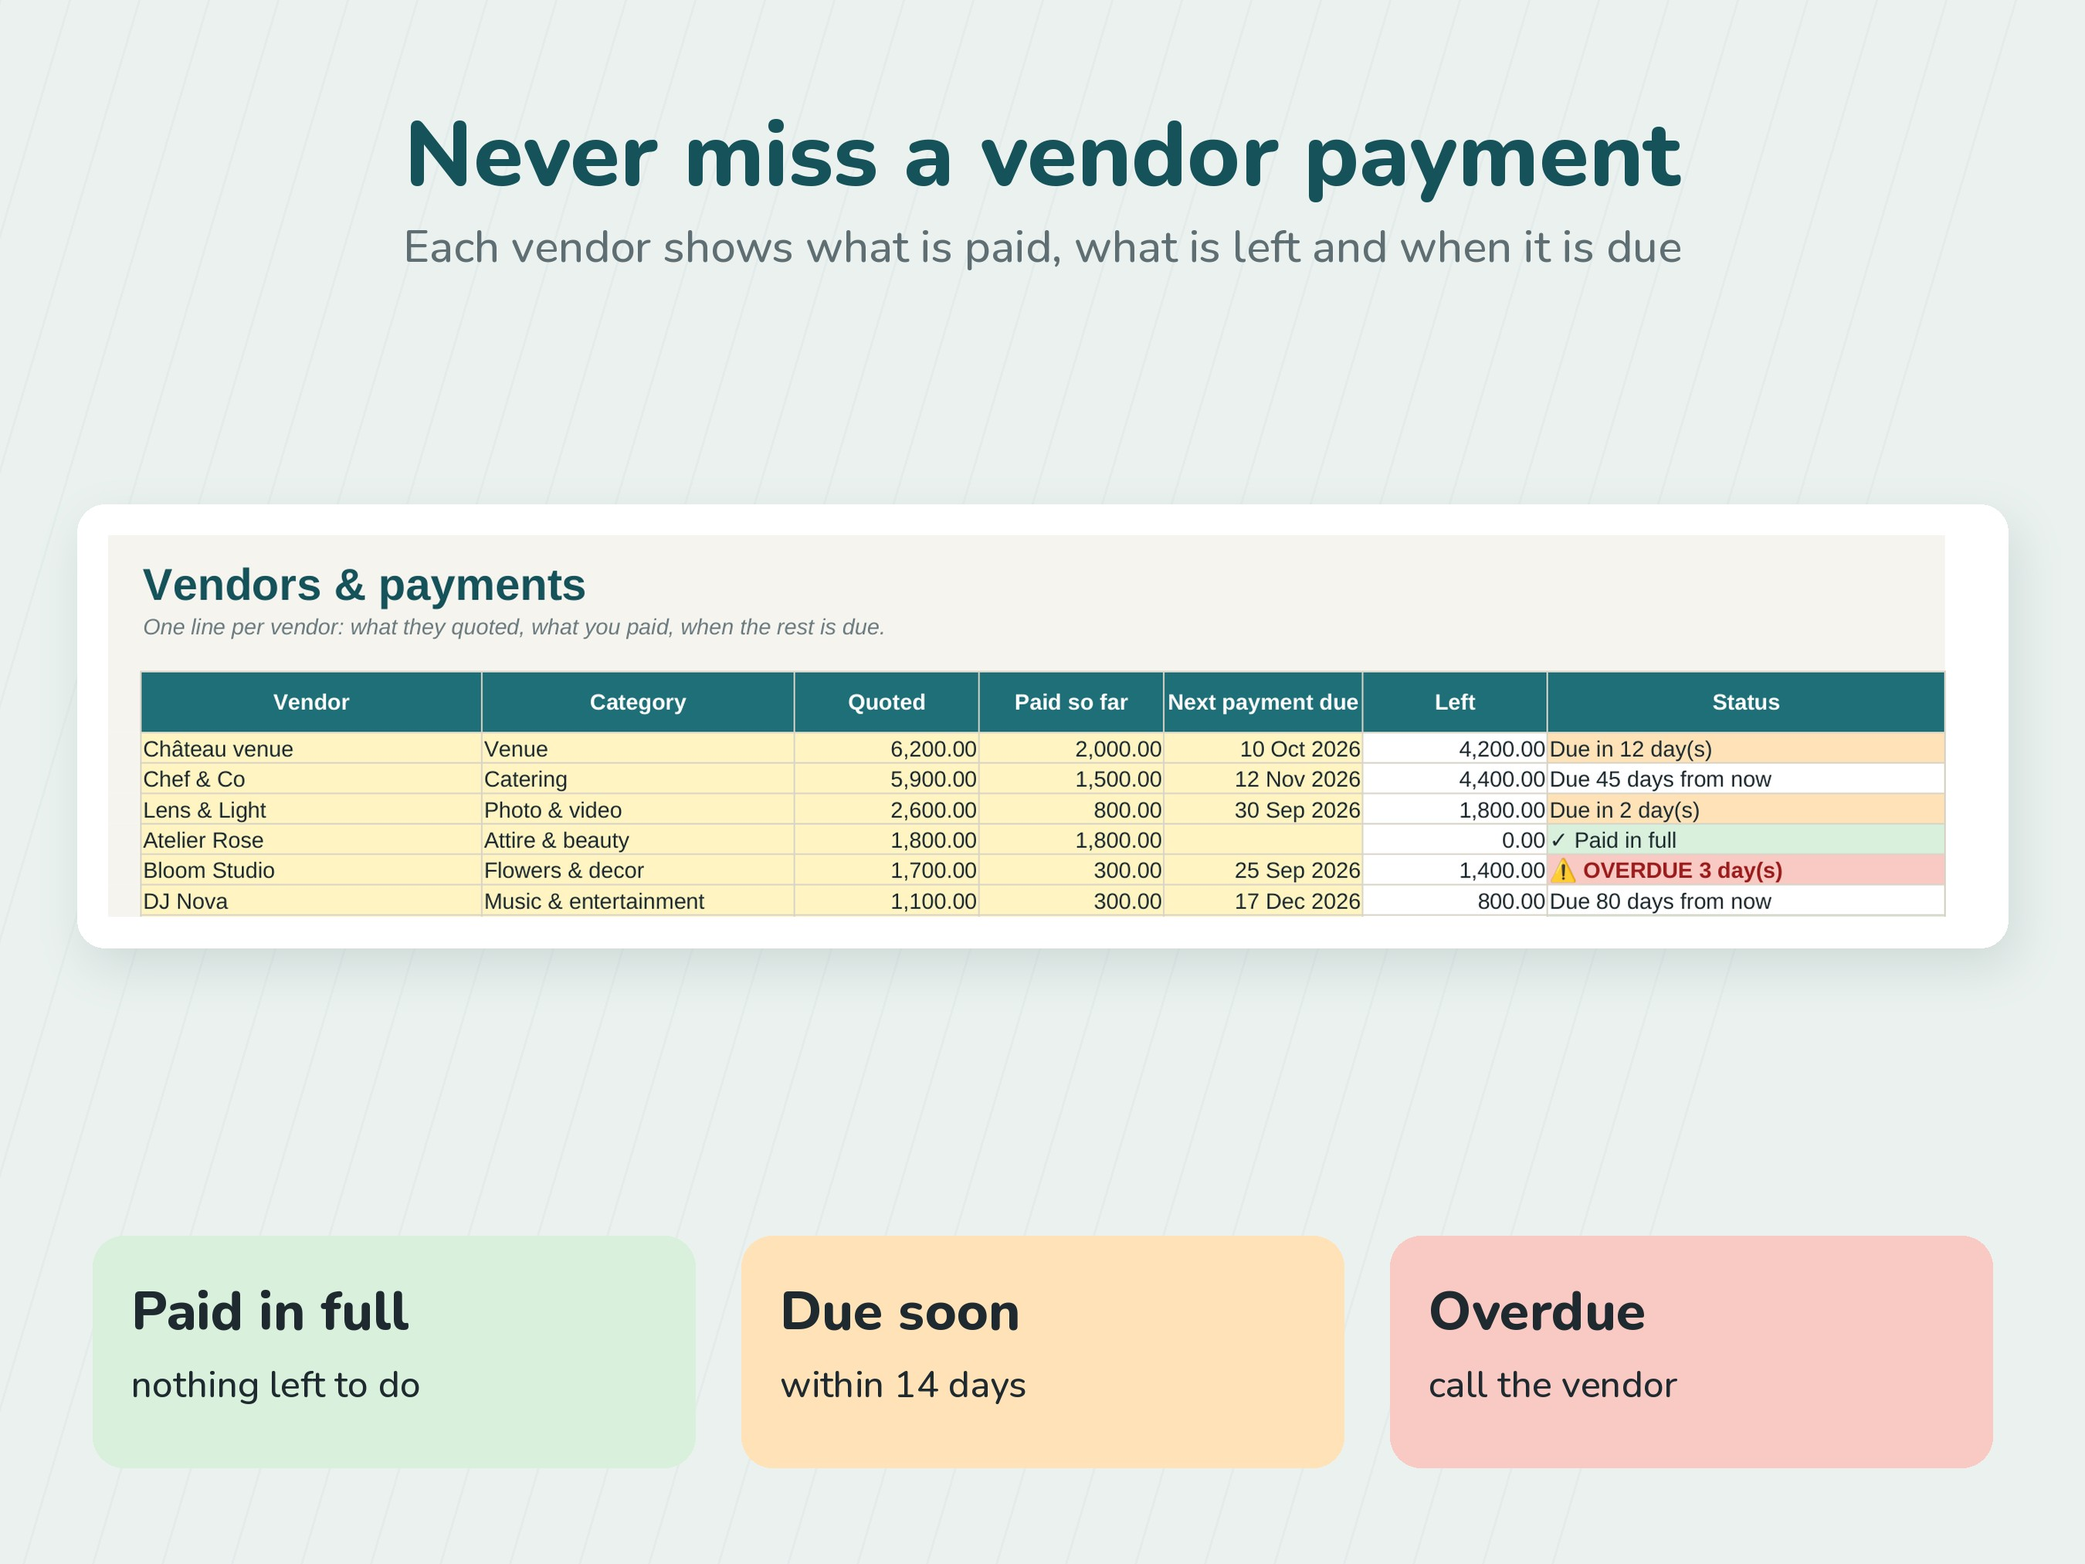
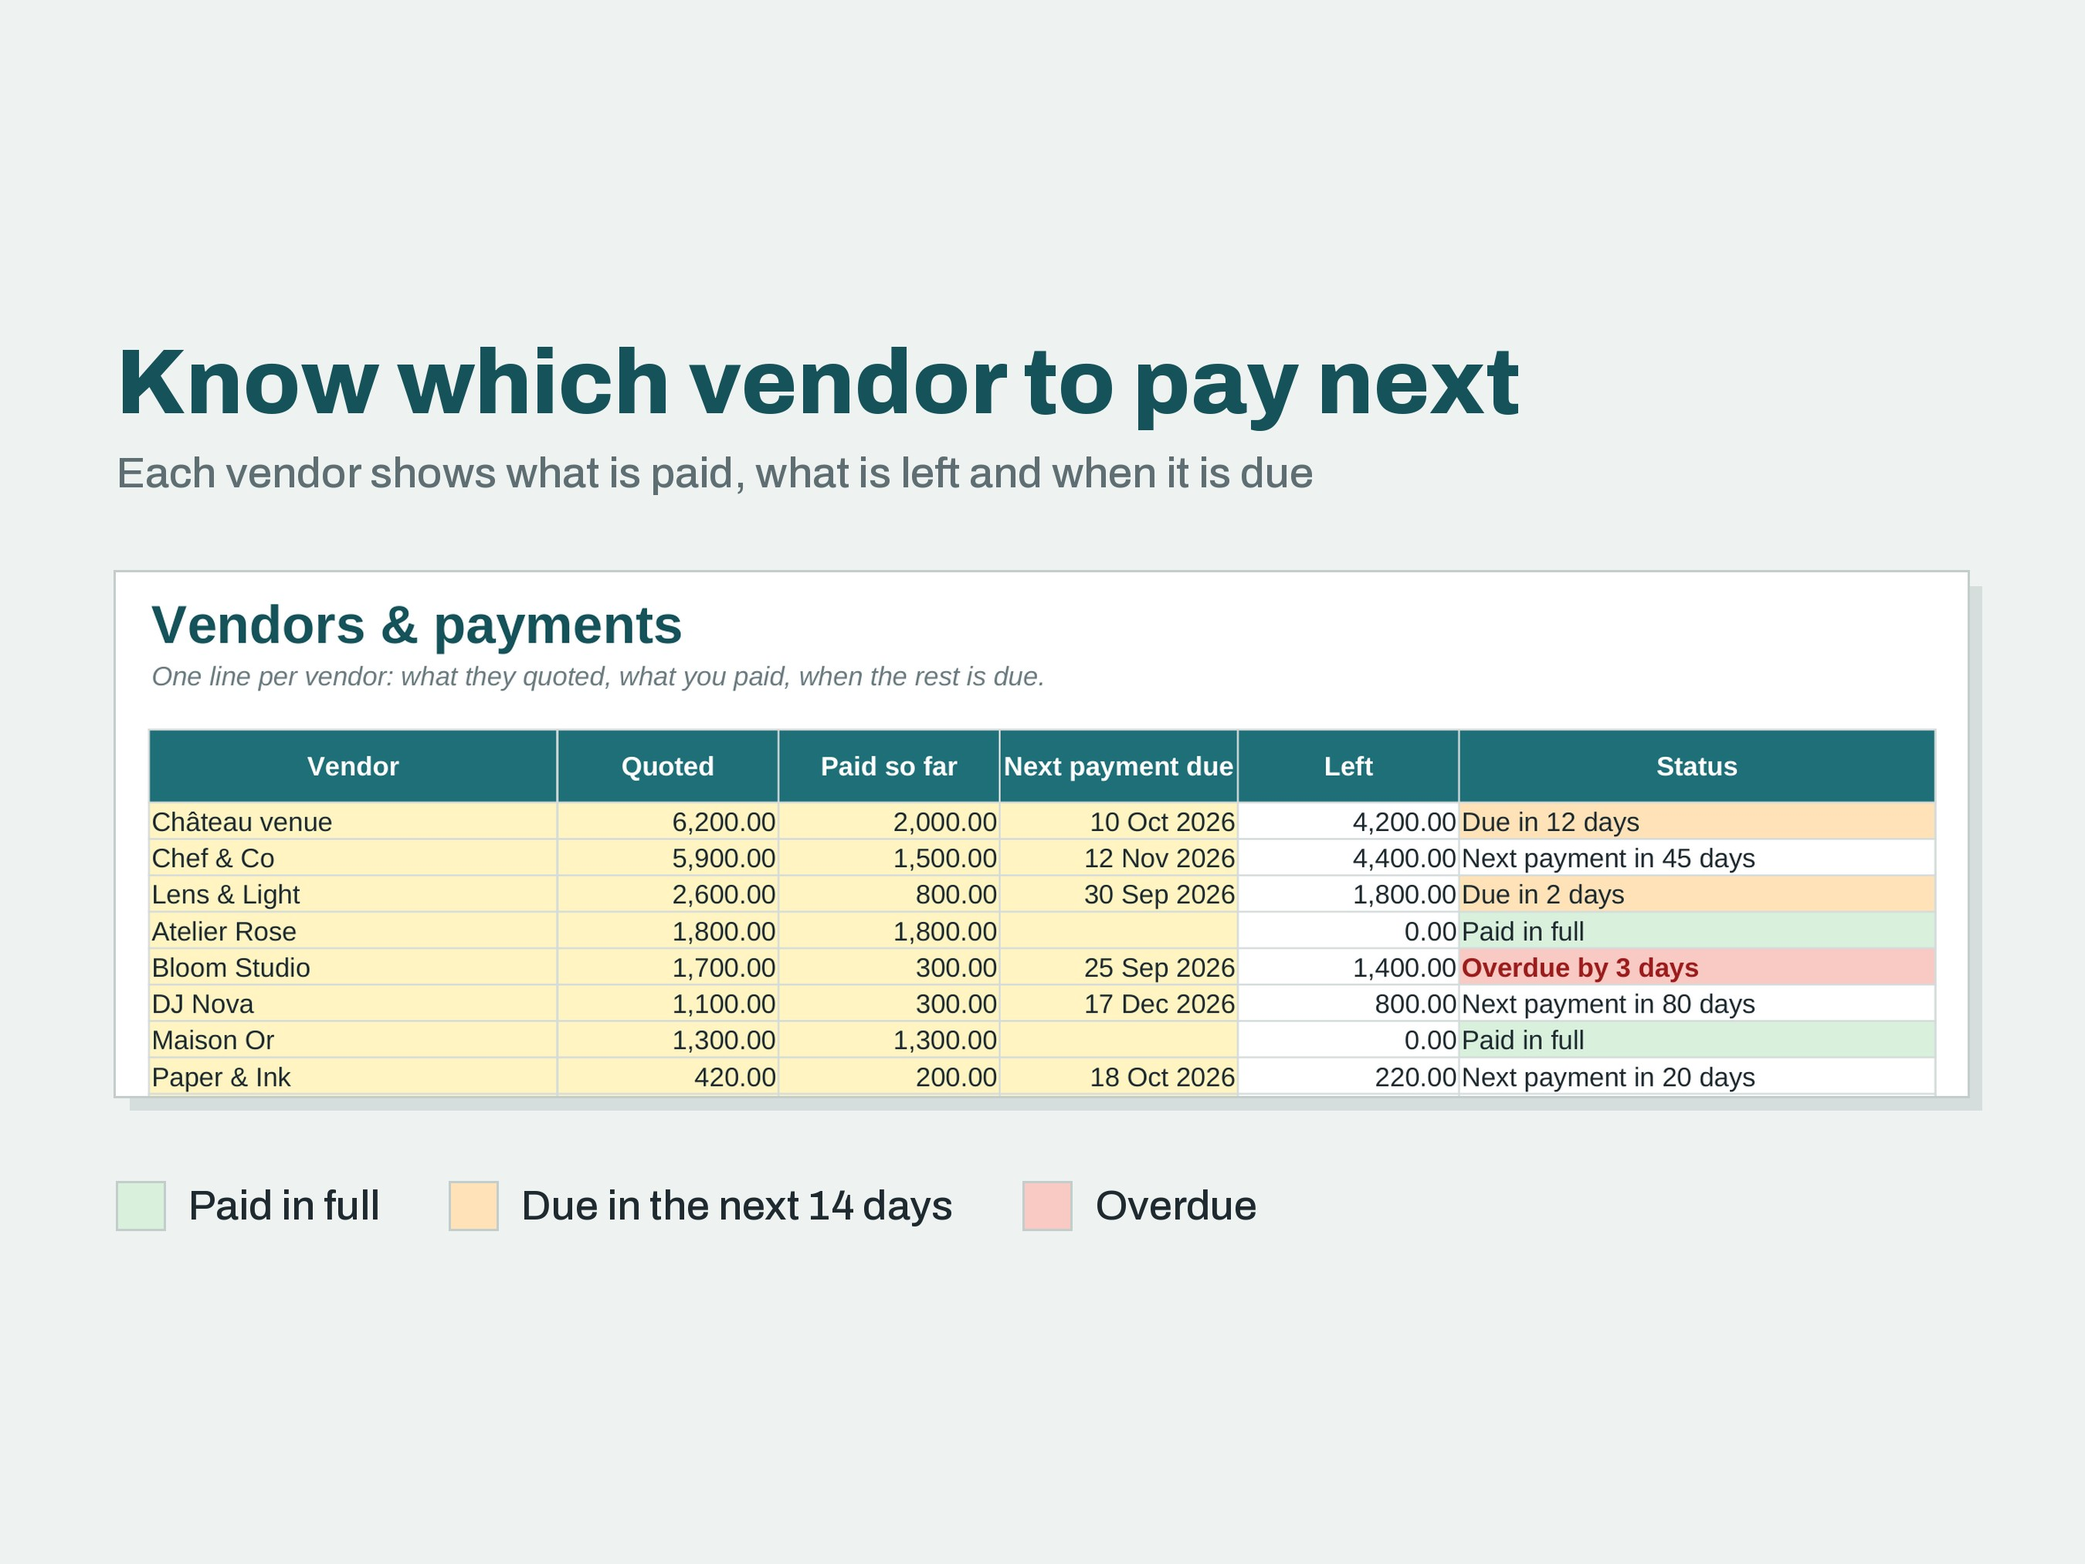
etsy: casamento sem cara de IA (status em palavras, textos simples, fotos novas)
Claude-Session: https://claude.ai/code/session_01DYz1Azd3FHBSgFnLhXfMUY

diff --git a/etsy/wedding/build.py b/etsy/wedding/build.py
@@ -78,19 +78,21 @@ for r in range(V0, V1 + 1):
     style(ve.cell(r, 5, s[3]), True, MONEY)
     style(ve.cell(r, 6, s[4]), True, DATE)
     style(ve.cell(r, 7, f'=IF(B{r}="","",D{r}-E{r})'), False, MONEY)
-    st = (f'=IF(B{r}="","",IF(G{r}<=0,"✓ Paid in full",IF(F{r}="","Balance, no date yet",'
-          f'IF(F{r}<TODAY(),"⚠ OVERDUE "&(TODAY()-F{r})&" day(s)",'
-          f'IF(F{r}-TODAY()<=14,"Due in "&(F{r}-TODAY())&" day(s)","Due "&(F{r}-TODAY())&" days from now")))))')
+    late, left = f"TODAY()-F{r}", f"F{r}-TODAY()"
+    st = (f'=IF(B{r}="","",IF(G{r}<=0,"Paid in full",IF(F{r}="","Balance due, no date set",'
+          f'IF(F{r}<TODAY(),"Overdue by "&{late}&IF({late}=1," day"," days"),IF(F{r}=TODAY(),"Due today",'
+          f'IF({left}<=14,"Due in "&{left}&IF({left}=1," day"," days"),"Next payment in "&{left}&" days"))))))')
     style(ve.cell(r, 8, st), False)
 dv = DataValidation(type="list", formula1=f"={CAT_RANGE}", allow_blank=True)
 ve.add_data_validation(dv)
 dv.add(f"C{V0}:C{V1}")
 ve.freeze_panes = "B6"
 rng = f"H{V0}:H{V1}"
-ve.conditional_formatting.add(rng, FormulaRule(formula=[f'LEFT($H{V0},1)="✓"'], fill=fill(OK)))
-ve.conditional_formatting.add(rng, FormulaRule(formula=[f'LEFT($H{V0},1)="⚠"'], fill=fill(BAD),
+ve.conditional_formatting.add(rng, FormulaRule(formula=[f'$H{V0}="Paid in full"'], fill=fill(OK)))
+ve.conditional_formatting.add(rng, FormulaRule(formula=[f'LEFT($H{V0},7)="Overdue"'], fill=fill(BAD),
                                                font=Font(name=F, bold=True, color="9B1C1C")))
-ve.conditional_formatting.add(rng, FormulaRule(formula=[f'LEFT($H{V0},6)="Due in"'], fill=fill(WARN)))
+ve.conditional_formatting.add(rng, FormulaRule(formula=[f'OR(LEFT($H{V0},6)="Due in",$H{V0}="Due today")'],
+                                               fill=fill(WARN)))
 
 # ---------------------------------------------------------------- Guests
 gu = wb.create_sheet("Guests")
@@ -107,23 +109,23 @@ for r in range(G0, G1 + 1):
     style(gu.cell(r, 2, names[k] if have else None), True)
     style(gu.cell(r, 3, ["Both", "Partner A", "Partner B"][k % 3] if have else None), True, align="center")
     style(gu.cell(r, 4, rsvp[k] if have else None), True, align="center")
-    style(gu.cell(r, 5, (k % 4 == 0) if have else None), True, align="center")
+    style(gu.cell(r, 5, ("Yes" if k % 4 == 0 else "No") if have else None), True, align="center")
     style(gu.cell(r, 6, meals[k] if have else None), True, align="center")
     style(gu.cell(r, 7, (k // 4) + 1 if have and rsvp[k] == "Yes" else None), True, "0", align="center")
     style(gu.cell(r, 8), True)
 for col, options in (("C", ["Both", "Partner A", "Partner B"]), ("D", ["Yes", "No", "Pending"]),
-                     ("E", ["TRUE", "FALSE"]), ("F", ["Meat", "Fish", "Veggie", "Kids"])):
+                     ("E", ["Yes", "No"]), ("F", ["Meat", "Fish", "Veggie", "Kids"])):
     v = DataValidation(type="list", formula1='"' + ",".join(options) + '"', allow_blank=True)
     gu.add_data_validation(v)
     v.add(f"{col}{G0}:{col}{G1}")
 gu.conditional_formatting.add(f"D{G0}:D{G1}", FormulaRule(formula=[f'$D{G0}="Yes"'], fill=fill(OK)))
 gu.conditional_formatting.add(f"D{G0}:D{G1}", FormulaRule(formula=[f'$D{G0}="Pending"'], fill=fill(WARN)))
-gu.conditional_formatting.add(f"D{G0}:D{G1}", FormulaRule(formula=[f'$D{G0}="No"'], fill=fill("E6E2DA")))
+gu.conditional_formatting.add(f"D{G0}:D{G1}", FormulaRule(formula=[f'$D{G0}="No"'], fill=fill("E4E8E8")))
 gu.freeze_panes = "B6"
 
 # ---------------------------------------------------------------- Dashboard
 db = wb.create_sheet("Dashboard", 0)
-sheet_base(db, "Our wedding at a glance", "Set the date below. Everything else fills itself in.",
+sheet_base(db, "Wedding dashboard", "Set the date below. Everything else fills itself in.",
            [3, 24, 16, 16, 16, 16, 3, 40])
 db["B4"] = "Wedding date"
 db["B4"].font = font(12, True, TEAL_D)
@@ -158,10 +160,10 @@ db.row_dimensions[7].height = 44
 header(db, 9, 2, ["Guests", "Invited", "Yes", "Pending", "No"])
 style(db["B10"], False, bold=True)
 db["B10"] = "People (incl. plus ones)"
-db["C10"] = f'=COUNTIFS({G("B")},"<>")+COUNTIFS({G("B")},"<>",{G("E")},TRUE)'
-db["D10"] = f'=COUNTIFS({G("D")},"Yes")+COUNTIFS({G("D")},"Yes",{G("E")},TRUE)'
-db["E10"] = f'=COUNTIFS({G("D")},"Pending")+COUNTIFS({G("D")},"Pending",{G("E")},TRUE)'
-db["F10"] = f'=COUNTIFS({G("D")},"No")+COUNTIFS({G("D")},"No",{G("E")},TRUE)'
+db["C10"] = f'=COUNTIFS({G("B")},"<>")+COUNTIFS({G("B")},"<>",{G("E")},"Yes")'
+db["D10"] = f'=COUNTIFS({G("D")},"Yes")+COUNTIFS({G("D")},"Yes",{G("E")},"Yes")'
+db["E10"] = f'=COUNTIFS({G("D")},"Pending")+COUNTIFS({G("D")},"Pending",{G("E")},"Yes")'
+db["F10"] = f'=COUNTIFS({G("D")},"No")+COUNTIFS({G("D")},"No",{G("E")},"Yes")'
 for col in "CDEF":
     style(db[f"{col}10"], False, "0", align="center")
 style(db["B11"], False, bold=True)
@@ -173,10 +175,16 @@ for i, meal in enumerate(["Meat", "Fish", "Veggie", "Kids"]):
 db["H9"] = "Heads-up"
 db["H9"].font = font(11, True, "FFFFFF")
 db["H9"].fill = fill(TEAL)
+late_n = f'COUNTIFS({V("H")},"Overdue*")'
+soon_n = f'(COUNTIFS({V("H")},"Due in*")+COUNTIFS({V("H")},"Due today"))'
+soon_sum = f'(SUMIFS({V("G")},{V("H")},"Due in*")+SUMIFS({V("G")},{V("H")},"Due today"))'
+wait_n = f'COUNTIFS({G("D")},"Pending")'
 notes = [
-    (f'=COUNTIFS({V("H")},"⚠*")&" payment(s) overdue"', BAD),
-    (f'=COUNTIFS({V("H")},"Due in*")&" payment(s) due in the next 14 days: "&FIXED(SUMIFS({V("G")},{V("H")},"Due in*"),2)', WARN),
-    (f'=COUNTIFS({G("D")},"Pending")&" guest(s) still to answer"', INFO),
+    (f'=IF({late_n}=0,"No overdue payments",IF({late_n}=1,"1 payment is overdue",{late_n}&" payments are overdue"))', BAD),
+    (f'=IF({soon_n}=0,"Nothing due in the next 14 days",IF({soon_n}=1,"1 payment",{soon_n}&" payments")'
+     f'&" due in the next 14 days: "&FIXED({soon_sum},2))', WARN),
+    (f'=IF({wait_n}=0,"Every guest has answered",IF({wait_n}=1,"1 guest has not answered yet",'
+     f'{wait_n}&" guests have not answered yet"))', INFO),
     ('=IF(C7>B7,"Over budget by "&FIXED(C7-B7,2),"Within budget")', OK),
 ]
 for k, (formula, colour) in enumerate(notes):
@@ -184,6 +192,10 @@ for k, (formula, colour) in enumerate(notes):
     c.fill = fill(colour)
     c.font = font(11)
     c.border = box
+for cell, start in (("H10", "No"), ("H11", "Nothing"), ("H12", "Every")):
+    db.conditional_formatting.add(cell, FormulaRule(formula=[f'LEFT({cell},{len(start)})="{start}"'], fill=fill(OK)))
+db.conditional_formatting.add("H13", FormulaRule(formula=['LEFT(H13,4)="Over"'], fill=fill(BAD)))
+db["H9"].alignment = Alignment(vertical="center")
 
 header(db, 14, 2, ["Category", "Planned", "Committed", "Used"])
 for k in range(len(CATS)):
@@ -198,21 +210,21 @@ db.column_dimensions["E"].width = 26
 
 # ---------------------------------------------------------------- Start Here
 st = wb.create_sheet("Start Here")
-sheet_base(st, "Start here: 10 minutes", "Only type in YELLOW cells.", [3, 6, 100])
+sheet_base(st, "Start here", "Type only in the yellow cells. Everything else is calculated.", [3, 6, 100])
 steps = [
-    ("1", "Dashboard: your wedding date (the countdown starts)."),
-    ("2", "Budget: your total budget. Adjust the shares if your priorities differ (they must add up to 100)."),
-    ("3", "Vendors: each vendor once you have a quote: amount, what you paid, next payment date."),
-    ("4", "Guests: one line per guest; update RSVP and meal as answers come in."),
-    ("★", "Dashboard: what is committed, paid and still to pay, payments due soon, and guest numbers."),
+    ("1", "Dashboard: type your wedding date and the countdown starts."),
+    ("2", "Budget: type your total. Change the percentages if your priorities differ (they add up to 100)."),
+    ("3", "Vendors: add each vendor once you have a quote, with the amount, what you paid and the next due date."),
+    ("4", "Guests: one line per guest. Update the RSVP and meal as answers come in."),
+    ("5", "The Dashboard then shows what is booked, paid and still to pay, and your guest numbers."),
 ]
 for k, (n, text) in enumerate(steps):
     r = 5 + k * 2
     st.cell(r, 2, n).font = font(18, True, TEAL)
     st.cell(r, 3, text).font = font(13)
-st["C17"] = "Example vendors and guests show how it works: delete them and add yours."
+st["C17"] = "The example vendors and guests show how it works. Delete them and add your own."
 st["C17"].font = font(11, color=MUTED, italic=True)
-st["C19"] = "Works in Google Sheets and Microsoft Excel. Any currency."
+st["C19"] = "Works in Google Sheets and Microsoft Excel, in any currency."
 st["C19"].font = font(11, color=MUTED, italic=True)
 
 wb.active = 0

diff --git a/etsy/wedding/listing_images.py b/etsy/wedding/listing_images.py
@@ -1,33 +1,32 @@
-"""Etsy listing images for the Wedding Budget Planner (run build.py first)."""
+"""Etsy listing photos for the Wedding Budget Planner (run build.py first)."""
 import os, sys
 sys.path.insert(0, os.path.join(os.path.dirname(os.path.abspath(__file__)), ".."))
-from listingkit import H, W, Renders, badges, canvas, card, chips, content, headline, inside, save  # noqa: E402
+from listingkit import M, Renders, canvas, content, detail, grid, laptop, note, save, title  # noqa: E402
 
 HERE = os.path.dirname(os.path.abspath(__file__))
-r = Renders(os.path.join(HERE, "Wedding-Budget-Planner.xlsx"), os.path.join(HERE, "out"))
+xlsx = os.path.join(HERE, "Wedding-Budget-Planner.xlsx")
+r = Renders(xlsx, os.path.join(HERE, "out"))
 img_dir = os.path.join(HERE, "images")
 
-img = canvas()
-headline(img, "Wedding Budget Planner", "Budget, vendors, payments and guests, in one calm dashboard")
-card(img, content(r.page("Our wedding at a glance")), (100, 390, W - 100, H - 180))
-badges(img, ["Google Sheets", "Excel", "Instant download"], H - 150)
+img = canvas(dark=True)
+title(img, "Wedding budget planner\nwith vendor payments", "Budget, vendors, payments and guests in one spreadsheet",
+      dark=True, width=2300)
+laptop(img, content(r.page("Wedding dashboard")), 600, 700, 1950)
+note(img, ["Google Sheets", "and Excel"], M, 1720, dark=True)
 save(img, os.path.join(img_dir, "01-dashboard.jpg"))
 
-img = canvas()
-headline(img, "Never miss a vendor payment", "Each vendor shows what is paid, what is left and when it is due")
-card(img, content(r.page("Vendors & payments"), keep=0.30), (100, 380, W - 100, 1500))
-chips(img, [("#D8F0DC", "Paid in full", "nothing left to do"), ("#FFE2B8", "Due soon", "within 14 days"),
-            ("#F9C9C4", "Overdue", "call the vendor")], 1600)
-save(img, os.path.join(img_dir, "02-vendors.jpg"))
+close = Renders(xlsx, os.path.join(HERE, "out"), hide={"Vendors": ["C"]})
+detail(os.path.join(img_dir, "02-vendors.jpg"), "Know which vendor to pay next",
+       "Each vendor shows what is paid, what is left and when it is due",
+       close.shot("Vendors & payments", until="Paper & Ink"),
+       [("#D8F0DC", "Paid in full"), ("#FFE2B8", "Due in the next 14 days"), ("#F9C9C4", "Overdue")])
 
 img = canvas()
-headline(img, "What's inside", "5 tabs: you only type in the yellow cells")
-inside(img, [
-    ("Dashboard", "countdown, committed, paid, still to pay"),
-    ("Budget", "your total, split into 11 categories"),
-    ("Vendors", "quotes, deposits, due dates, status"),
-    ("Guests", "RSVP, plus ones, meals, tables"),
-    ("Start Here", "5 steps, 10 minutes"),
-])
-badges(img, ["Google Sheets + Excel", "No subscription", "Instant download"], H - 180)
+y = title(img, "Inside the file", "Five tabs. You type in the yellow cells and the rest is calculated.")
+grid(img, [
+    (content(r.page("Wedding dashboard")), "Dashboard", "Countdown, booked, paid and still to pay"),
+    (content(r.page("Budget")), "Budget", "Your total split into 11 categories"),
+    (content(r.page("Vendors & payments")), "Vendors", "Quotes, deposits, due dates and status"),
+    (content(r.page("Guest list")), "Guests", "RSVP, plus ones, meals and tables"),
+], y + 80)
 save(img, os.path.join(img_dir, "03-whats-inside.jpg"))

diff --git a/etsy/wedding/guide.py b/etsy/wedding/guide.py
@@ -4,22 +4,22 @@ import pymupdf
 S = "font-family:sans-serif"
 HTML = f"""
 <h1 style="color:#15525A;{S}">Wedding Budget Planner</h1>
-<p style="{S};color:#5E6E72">Congratulations, and thank you! Ten minutes to set it up.</p>
-<h2 style="color:#1F6F78;{S}">Open it</h2>
-<p style="{S}"><b>Google Sheets</b> (best for planning together): drive.google.com → <i>New › File upload</i> →
-<b>Wedding-Budget-Planner.xlsx</b> → open it → <i>File › Save as Google Sheets</i> → <i>Share</i> with your partner.
+<p style="{S};color:#5E6E72">Congratulations, and thanks for your order. Setting it up takes about ten minutes.</p>
+<h2 style="color:#1F6F78;{S}">Opening the file</h2>
+<p style="{S}"><b>Google Sheets</b> is the easiest way to plan together: go to drive.google.com, click <i>New &gt; File upload</i>
+and pick <b>Wedding-Budget-Planner.xlsx</b>. Open it, choose <i>File &gt; Save as Google Sheets</i>, then use <i>Share</i> to invite your partner.<br/>
 <b>Excel:</b> double-click the file.</p>
-<h2 style="color:#1F6F78;{S}">Set it up</h2>
+<h2 style="color:#1F6F78;{S}">Setting it up</h2>
 <ol style="{S}">
-<li><b>Dashboard:</b> your wedding date.</li>
-<li><b>Budget:</b> your total budget. The shares are a common starting point; change them to match your priorities (they must add up to 100).</li>
-<li><b>Vendors:</b> add each vendor once you have a quote, with what you paid and when the next payment is due.</li>
-<li><b>Guests:</b> one line per guest; update RSVP and meal as answers come in.</li>
+<li><b>Dashboard:</b> type your wedding date.</li>
+<li><b>Budget:</b> type your total budget. The percentages are a common starting point. Change them to match your priorities; together they must make 100.</li>
+<li><b>Vendors:</b> add each vendor once you have a quote, with what you have paid and when the next payment is due.</li>
+<li><b>Guests:</b> one line per guest. Update the RSVP and meal as answers come in.</li>
 </ol>
-<p style="{S}">Only type in the <span style="background-color:#FFF4C2">yellow cells</span>. Delete the example vendors and guests.</p>
-<h2 style="color:#1F6F78;{S}">Every week</h2>
-<p style="{S}">Check the Heads-up box: overdue payments, payments due in the next 14 days, guests who have not answered.</p>
-<p style="{S};color:#5E6E72;font-size:9px">Designed with the help of AI tools. Any currency.</p>
+<p style="{S}">You only type in the <span style="background-color:#FFF4C2">yellow cells</span>. Delete the example vendors and guests before you start.</p>
+<h2 style="color:#1F6F78;{S}">Once a week</h2>
+<p style="{S}">Look at the Heads-up box on the Dashboard. It lists overdue payments, payments due in the next 14 days and guests who have not answered.</p>
+<p style="{S};color:#5E6E72;font-size:9px">Made with the help of AI tools. Works with any currency.</p>
 """
 story = pymupdf.Story(html=HTML)
 writer = pymupdf.DocumentWriter("Start-Here-Guide.pdf")
